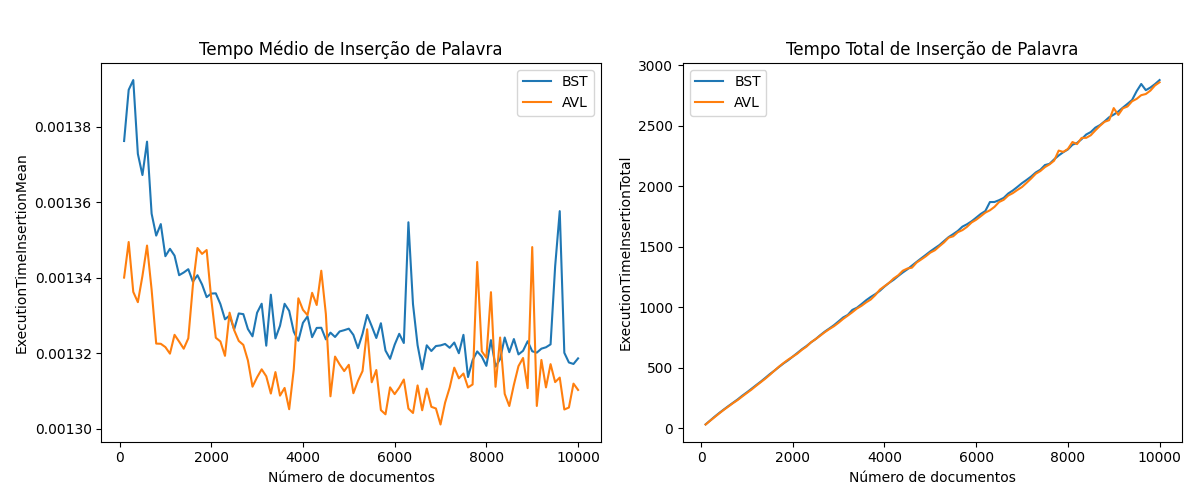
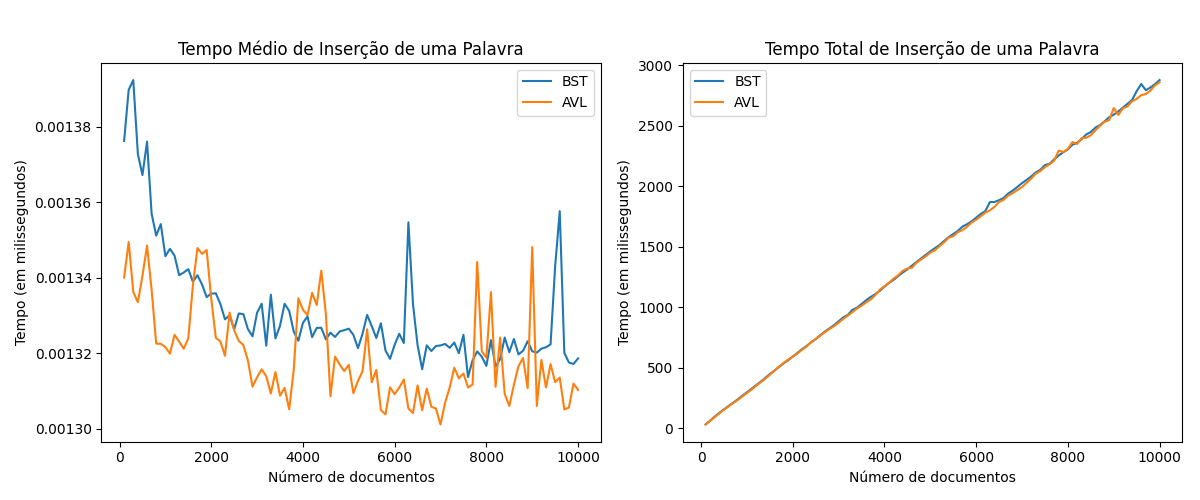
rename ylabel

diff --git a/docs/visualizations.py b/docs/visualizations.py
@@ -6,35 +6,38 @@ avl = pd.read_csv("dados_avl.csv")
 # rbt = pd.read_csv("dados_rbt.csv")
 col_names = bst.columns[1:]
 
-def plot_graph(ax, col_name, title):
+def plot_graph(ax, col_name, title, ylabel):
     ax.plot(bst["N_docs"], bst[col_name], label="BST")
     ax.plot(avl["N_docs"], avl[col_name], label="AVL")
     # ax.plot(rbt["N_docs"], rbt[col_name], label="RBT")
     ax.set_xlabel("Número de documentos")
-    ax.set_ylabel(col_name)
+    ax.set_ylabel(ylabel)
     ax.set_title(title)
     ax.legend()
 
 def save_branch_graph(col_name_1, col_name_2, title):
     _, axes = plt.subplots(1, 1, figsize=(6, 5)) 
-    plot_graph(axes, col_name_1, title)
+    plot_graph(axes, col_name_1, title, "Tamanaho do galho")
     axes.plot(avl["N_docs"], avl[col_name_2], color="#ff7f0e")
     axes.plot(bst["N_docs"], bst[col_name_2], color="#1f77b4")
     # axes[0].plot(rbt["N_docs"], rbt[col_name_2], color="#2ca02c")
-    axes.set_ylabel("Tamanaho do galho")
     plt.savefig(f'docs/graphs/grafico_branchs.png')
     plt.close()
     
 def save_simple_graph(col_name, title):
     _, axes = plt.subplots(1, 1, figsize=(6, 5)) 
-    plot_graph(axes, col_name, title)
+    plot_graph(axes, col_name, title, title)
     plt.savefig(f'docs/graphs/grafico_{col_name}.png')
     plt.close()
 
 def save_double_graph(col_name_1, col_name_2, pre, title, path):
     _, axes = plt.subplots(1, 2, figsize=(12, 5))  
-    plot_graph(axes[0], col_name_1, pre + " Médio " + title)
-    plot_graph(axes[1], col_name_2, pre + " Total " + title)
+    if pre == "Tempo":
+        plot_graph(axes[0], col_name_1, pre + " Médio " + title, "Tempo (em milissegundos)")
+        plot_graph(axes[1], col_name_2, pre + " Total " + title, "Tempo (em milissegundos)")
+    elif pre == "Número":
+        plot_graph(axes[0], col_name_1, pre + " Médio " + title, "Número de comparações")
+        plot_graph(axes[1], col_name_2, pre + " Total " + title, "Número de comparações")
     plt.tight_layout(rect=[0, 0, 1, 0.95])
     plt.savefig(f'docs/graphs/grafico_{path}.png')
     plt.close()
